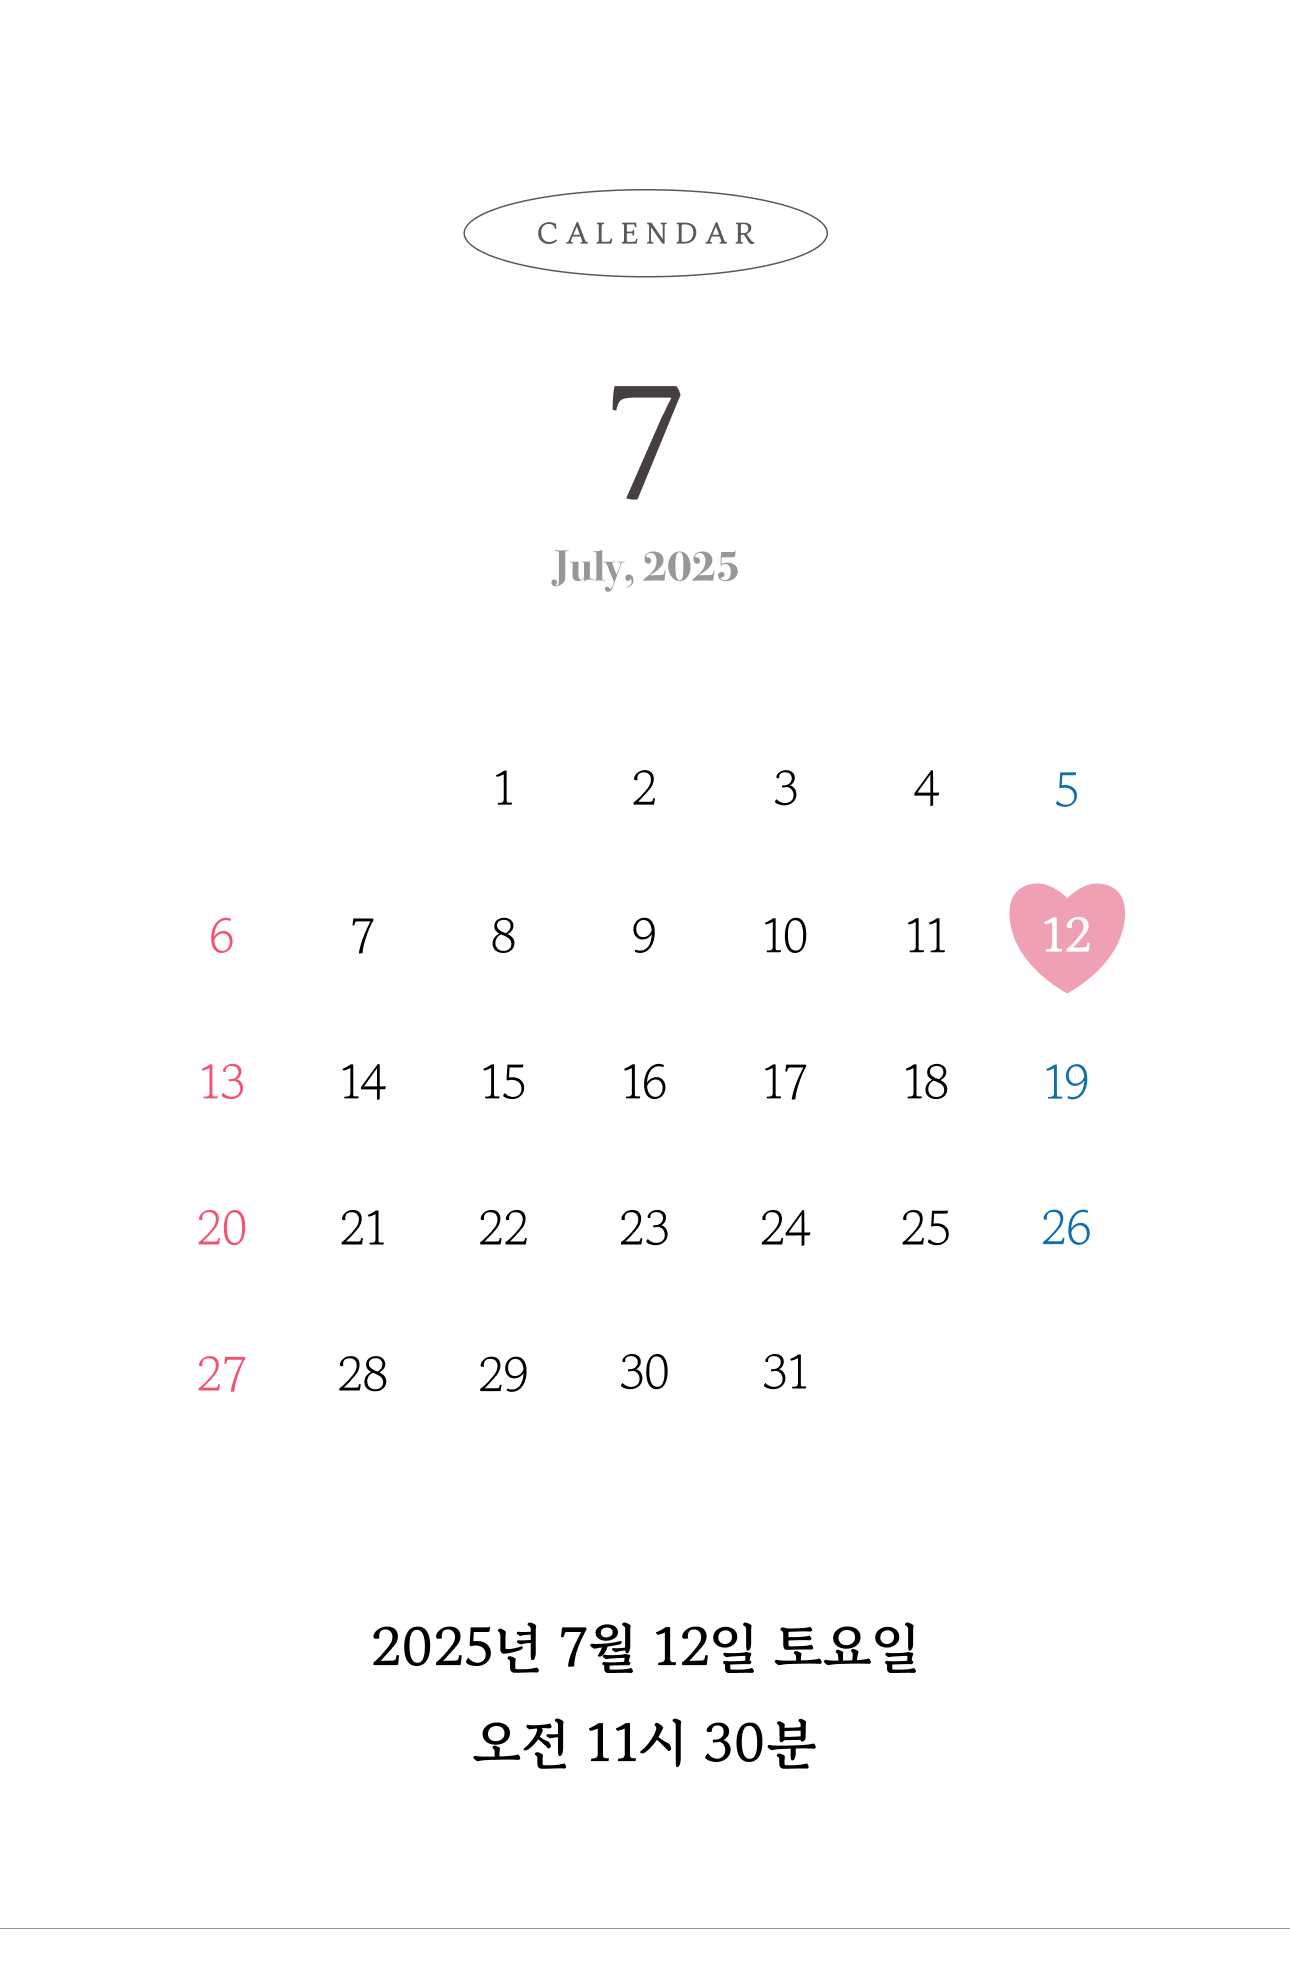
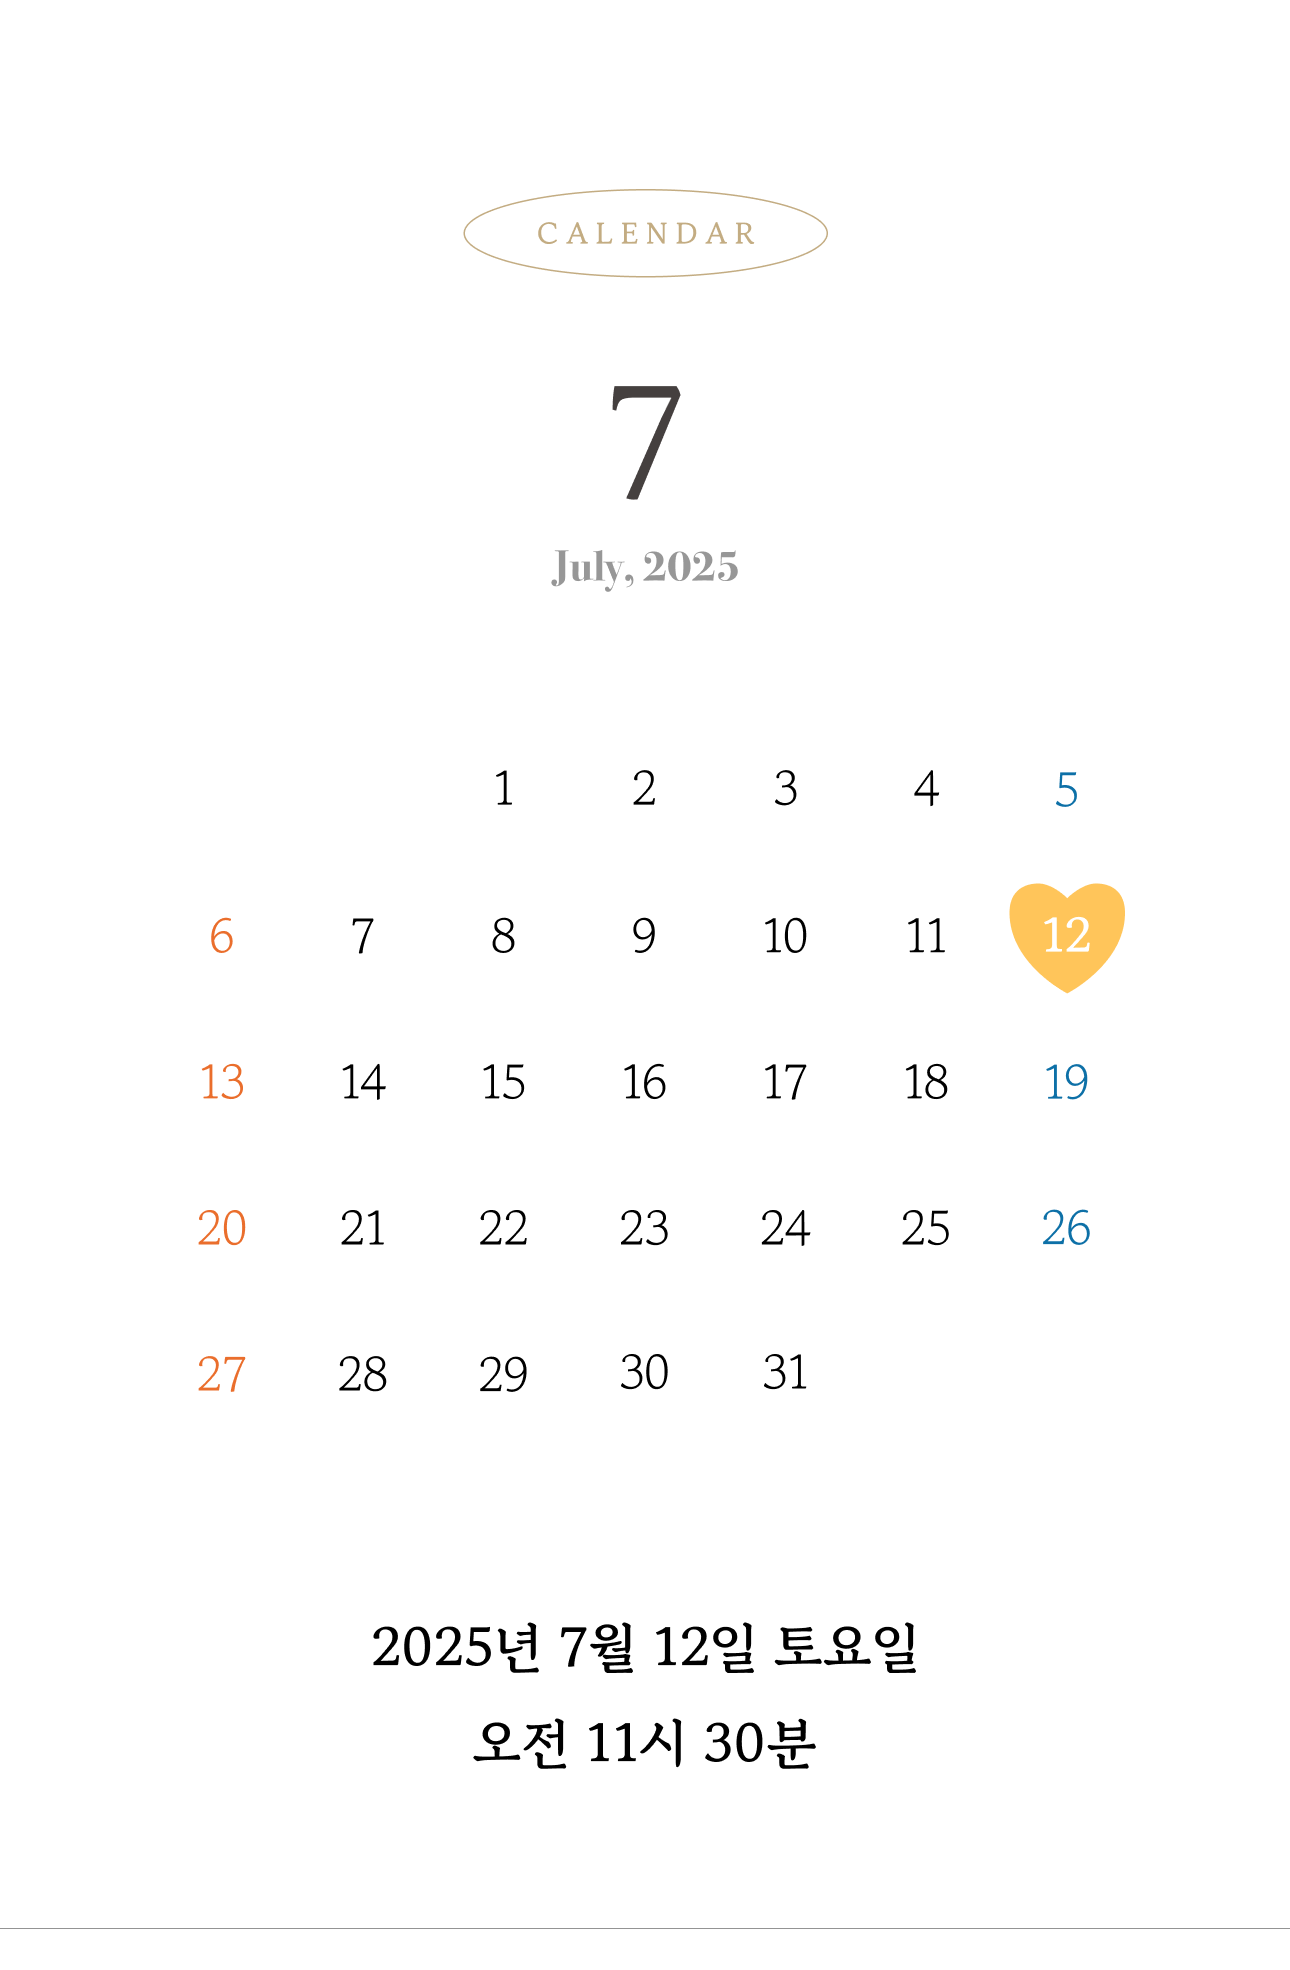
4

diff --git a/index.html b/index.html
@@ -175,7 +175,7 @@
       <section id="gallerySection">
         <div id="galleryImages" class="gallery">
           <span style="
-            color: #8B8B8B;
+            color: #A08E6A;
             font-size: 10px;
             min-width: 3rem;
             display: inline-block;"><b>G A L L E R Y</b></span><br>
@@ -229,7 +229,7 @@
               <th>SEC</th>
             </tr>
             <tr>
-              <td id="daysLeft" style="color: #FF5C81; font-weight: 600">
+              <td id="daysLeft" style="color: #D9AC57; font-weight: 600">
                 119
               </td>
               <td>:</td>
@@ -253,7 +253,7 @@
         <div class="animate-on-scroll">
 
           <span style="
-            color: #8B8B8B;
+            color: #A08E6A;
             font-size: 9px;
             min-width: 3rem;
             display: inline-block;"><b>L O C A T I O N</b></span>
@@ -341,7 +341,7 @@
       </div>
 
       <!-- map 길찾기 -->
-      <div class="animate-on-scroll" id="MapIconDiv" style="background-color: #8B8B8B;">
+      <div class="animate-on-scroll" id="MapIconDiv" style="background-color: #E9DDC7;">
         <div>
           <a class="maplink">
             <div>

diff --git a/style.css b/style.css
@@ -125,7 +125,7 @@ svg {
 }
 
 #gallerySection {
-  background-color: #F5F5F6;
+  background-color: #FFF8EB;
   padding-top: 20%;
 }
 
@@ -133,7 +133,7 @@ svg {
   display: grid;
   grid-template-columns: repeat(2, minmax(0, 1fr));
   grid-gap: 5px;
-  background-color: #F5F5F6;
+  background-color: #FFF8EB;
   /* (A2) OPTIONAL WIDTH RESTRICT */
   max-width: 1000px;
   margin: 0 auto;
@@ -232,7 +232,7 @@ svg {
 }
 
 .countdownTimeInfo {
-  color: #FF5C81;
+  color: #D9AC57;
   font-weight: 600;
 }
 
@@ -274,7 +274,7 @@ svg {
 
 #locationSection {
   margin-top: 3%;
-  background-color: #F5F5F6;
+  background-color: #FFF8EB;
   height: 265px;
 }
 
@@ -339,7 +339,7 @@ main {
 }
 
 .accordion {
-  background-color: #F5F5F6;
+  background-color: #FCF8F0;
   color: black;
   cursor: pointer;
   padding: 0.8rem;
@@ -424,7 +424,7 @@ main {
 }
 
 #MapIconDiv {
-  color: #ffffff;
+  color: #000;
   font-size: 13px;
   text-align: center;
   background-color: white;
@@ -436,7 +436,7 @@ main {
 }
 
 #kakaoMapButton {
-  background-color: #8B8B8B;
+  background-color: #E9DDC7;
   padding: 10px;
   text-align: center;
   width: auto;

diff --git a/countdown.js b/countdown.js
@@ -1,7 +1,7 @@
 document.addEventListener("DOMContentLoaded", function () {
   function updateCountdown() {
     // 결혼 날짜 설정 (년, 월(0부터 시작), 일, 시, 분)
-    const weddingDate = new Date(2025, 7, 12, 11, 30); // 예시: 2024년 10월 12일
+    const weddingDate = new Date(2025, 6, 12, 11, 30); // 예시: 2024년 10월 12일
 
     const currentDate = new Date();
     const timeDifference = weddingDate - currentDate;
